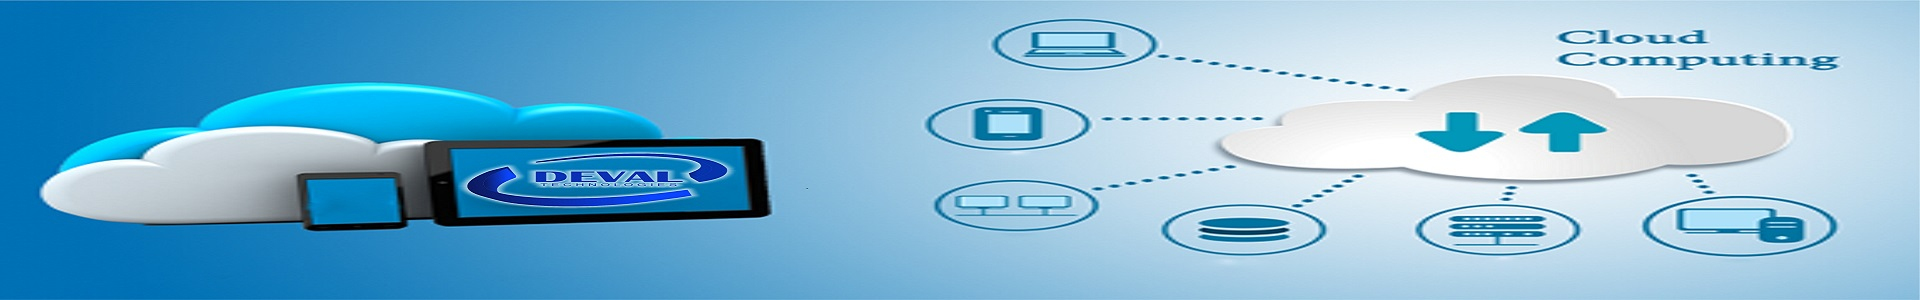
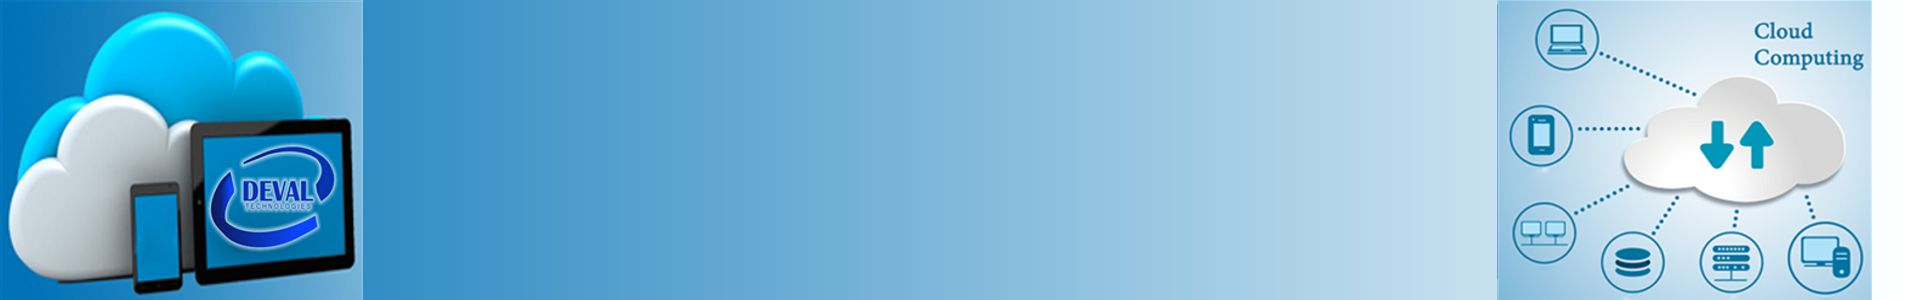
add new images for services

diff --git a/index.html b/index.html
@@ -124,8 +124,8 @@
                                                     </li>
                                                     <li class="dropdown"> <a href="services.html" class="dropdown-toggle"> Servicios</a>
                                                     </li>
-                                                    <li class="dropdown"> <a href="products.html" class="dropdown-toggle"> Productos</a>
-                                                    </li>
+                                                    <!-- <li class="dropdown"> <a href="products.html" class="dropdown-toggle"> Productos</a>
+                                                    </li> -->
 
                                                     <li class="dropdown"> <a href="contact.html" class="dropdown-toggle">Contacto</a>
                                                     </li>
@@ -244,9 +244,9 @@
                                 <span class="price">TI</span><br/>
                             </div>
 
-                            <div class="tp-caption text3 sfb" data-x="center" data-hoffset="0" data-voffset="-10" data-y="95" data-speed="800" data-start="1900" data-easing="Power4.easeOut" data-endspeed="300" data-endeasing="Power1.easeIn" data-captionhidden="off" style="z-index: 6">Tienes un proyecto, nosotros lo realizamos</div>
+                            <div class="tp-caption text3 sfb" data-x="center" data-hoffset="0" data-voffset="-10" data-y="95" data-speed="800" data-start="1900" data-easing="Power4.easeOut" data-endspeed="300" data-endeasing="Power1.easeIn" data-captionhidden="off" style="z-index: 6">Transformación Digital para tu Negocio</div>
 
-                            <div class="tp-caption slide_list sfb" data-x="center" data-hoffset="0" data-voffset="-10" data-y="135" data-speed="800" data-start="2200" data-easing="Power4.easeOut" data-endspeed="300" data-endeasing="Power1.easeIn" data-captionhidden="off" style="z-index:6">Te ayudamos en la transformación digital para tu negocio. </div>
+                            <div class="tp-caption slide_list sfb" data-x="center" data-hoffset="0" data-voffset="-10" data-y="135" data-speed="800" data-start="2200" data-easing="Power4.easeOut" data-endspeed="300" data-endeasing="Power1.easeIn" data-captionhidden="off" style="z-index:6">Te ayudamos a digitalizar los procesos de tu negocio. </div>
                         </li>
                     </ul>
                     <div class="tp-bannertimer"></div>

diff --git a/contact.html b/contact.html
@@ -108,8 +108,8 @@
                                                     </li>
                                                     <li class="dropdown"> <a href="services.html" class="dropdown-toggle"> Servicios</a>
                                                     </li>
-                                                    <li class="dropdown"> <a href="products.html" class="dropdown-toggle"> Productos</a>
-                                                    </li>
+                                                    <!-- <li class="dropdown"> <a href="products.html" class="dropdown-toggle"> Productos</a>
+                                                    </li> -->
 
                                                     <li class="dropdown"> <a href="contact.html" class="dropdown-toggle active">Contacto</a>
                                                     </li>
@@ -129,7 +129,7 @@
             <div class="header_medium contact_us two">
                 <div class="container">
                     <h3 class="bigtext"> Contacte<span>nos</span></h3>
-                    <h3 class="smalltext"><span>Te</span> Escuchamos</h3>
+                    <h3 class="smalltext"><span>Los</span> Escuchamos</h3>
                 </div>
             </div>
             <!--end header medium-->
@@ -340,14 +340,15 @@
                     // Messages for form validation
                     messages: {
                         name: {
-                            required: 'Please enter your name',
+                            required: 'Ingrese su nombre',
                         },
                         email: {
-                            required: 'Please enter your email address',
-                            email: 'Please enter a VALID email address'
+                            required: 'Ingrese su email',
+                            email: 'Email incorrecto'
                         },
                         message: {
-                            required: 'Please enter your message'
+                            required: 'Ingrese su mensaje',
+                            minlength: 'Ingrese mínimo 10 caracteres'
                         }
                     },
 

diff --git a/services.html b/services.html
@@ -107,8 +107,8 @@
                                                     </li>
                                                     <li class="dropdown"> <a href="services.html" class="dropdown-toggle active"> Servicios</a>
                                                     </li>
-                                                    <li class="dropdown"> <a href="products.html" class="dropdown-toggle"> Productos</a>
-                                                    </li>
+                                                    <!-- <li class="dropdown"> <a href="products.html" class="dropdown-toggle"> Productos</a>
+                                                    </li> -->
 
                                                     <li class="dropdown"> <a href="contact.html" class="dropdown-toggle">Contacto</a>
                                                     </li>
@@ -127,8 +127,8 @@
             <div class="clearfix"></div>
             <div class="header_medium services two">
                 <div class="container">
-                    <h3 class="bigtext"> Nuestros <span>Servicios</span></h3>
-                    <h3 class="smalltext"><span>Soluciones</span> Informáticas</h3>
+                    <h3 class="bigtext">¿Quieres digitalizar<span> tu negocio?</span></h3>
+                    <h3 class="smalltext"><span>Somos</span> los especialistas</h3>
                 </div>
             </div>
             <!--end header medium-->
@@ -168,7 +168,7 @@
             </div>
             <!--end section-->
             <div class="clearfix"></div>
-            <div class="section_holder21">
+            <div class="section_holder_services21">
                 <div class="section_top_shape"></div>
                 <div class="container">
                     <div class="one_full">
@@ -185,6 +185,7 @@
                             <div class="icon"><span class="glyph-item mega" aria-hidden="true" data-icon="&#xe036;"></span></div>
                             <h5 class="white lessmar2">Web Apps</h5>
                             <p class="white">Soluciones web.</p>
+
                         </div>
                         <!--end item-->
 

diff --git a/css/colors/liteblue.css b/css/colors/liteblue.css
@@ -1,5 +1,5 @@
 #trueHeader #logo {
-    background: url(../../images/colors/liteblue/desarrollo-software.1.png) left bottom no-repeat;
+    background: url(../../images/colors/liteblue/desarrollo-software.1.png) left center no-repeat;
 }
 
 .top_nav {
@@ -485,7 +485,41 @@ ul.nav>li>a.active:hover {
 }
 
 .section_holder21 {
-    background-image: url(../../images/colors/liteblue/parallax_bg5.jpg);
+    width: 100%;
+    float: left;
+    padding: 0px 0 0px 0;
+    margin: 0px;
+    /* background: url("../images/desarrollo-sistemas-erp.jpg"); */
+    background: url(../../images/desarrollo-sistemas-outsourcing-2.jpg);
+    background-attachment: fixed;
+    background-origin: initial;
+    background-clip: initial;
+    background-size: cover;
+    background-repeat: no-repeat;
+    background-position: 100% 0;
+    background-position: center;
+    /* background-size: cover; */
+}
+
+.section_holder_services21 {
+    width: 100%;
+    float: left;
+    padding: 0px 0 0px 0;
+    margin: 0px;
+    /* background: url("../images/desarrollo-sistemas-erp.jpg"); */
+    background: url(../../images/desarrollo-sistemas-software-servicios.jpg);
+    background-attachment: fixed;
+    background-origin: initial;
+    background-clip: initial;
+    background-size: cover;
+    background-repeat: no-repeat;
+    background-position: 100% 0;
+    background-position: center;
+    /* background-size: cover; */
+}
+
+.section_holder_services21 .icon {
+    font-size: 4rem;
 }
 
 .section_holder22 .one_fourth:hover .img_holder {

diff --git a/css/style.css b/css/style.css
@@ -154,11 +154,11 @@
     float: left;
     display: block;
     width: 100%;
-    min-height: 45px;
-    margin-top: 13px;
+    min-height: 70px;
+    margin-top: 2px;
     position: relative;
     text-indent: -999em;
-    background: url(../images/desarrollo-software.1.png) no-repeat left bottom;
+    background: url(../images/desarrollo-software.1.png) no-repeat left center;
 }
 
 
@@ -3129,14 +3129,17 @@ label.custom-select {
 
 .about_us {
     background: url(../images/about_deval_software.jpg) 0px 0px no-repeat;
+    background-size: contain;
 }
 
 .contact_us {
     background: url(../images/contactanos_deval_tech_sistemas.jpg) 0px 0px no-repeat;
+    background-size: contain;
 }
 
 .services {
     background: url(../images/Cloud-computing-Servicios-deval-2.jpg) 0px 0px no-repeat;
+    background-size: contain;
 }
 
 .header_medium .bigtext {
@@ -3248,7 +3251,7 @@ label.custom-select {
     float: left;
     padding: 0px 0 0px 0;
     margin: 0px;
-    background: url("../images/parallax_bg5.jpg");
+    background: url("../images/desarrollo-sistemas-outsourcing-2.jpg");
     background-attachment: fixed;
     background-origin: initial;
     background-clip: initial;

diff --git a/about.html b/about.html
@@ -106,8 +106,8 @@
                                                     </li>
                                                     <li class="dropdown"> <a href="services.html" class="dropdown-toggle"> Servicios</a>
                                                     </li>
-                                                    <li class="dropdown"> <a href="products.html" class="dropdown-toggle"> Productos</a>
-                                                    </li>
+                                                    <!-- <li class="dropdown"> <a href="products.html" class="dropdown-toggle"> Productos</a>
+                                                    </li> -->
 
                                                     <li class="dropdown"> <a href="contact.html" class="dropdown-toggle">Contacto</a>
                                                     </li>

diff --git a/css/responsive-leyouts.css b/css/responsive-leyouts.css
@@ -856,7 +856,7 @@
         background: url(/assets/images/desarrollo-software.1.png) no-repeat center bottom;
     }
     .menu_main {
-        float: none;
+        /* float: none; */
         width: 90%;
         margin: 0 auto;
     }
@@ -1474,7 +1474,7 @@
         width: 100%;
     }
     .menu_main {
-        float: none;
+        /* float: none; */
         width: 90%;
         margin: 0 auto;
     }

diff --git a/demo-contacts.php b/demo-contacts.php
@@ -1,7 +1,7 @@
 <?php
 if( isset($_POST['name']) )
 {
-	$to = 'codelayers9@gmail.com'; // Replace with your email
+	$to = 'contacto@devaltech.net'; // Replace with your email
 	
 	$subject = $_POST['subject'];
 	$message = $_POST['message'] . "\n\n" . 'Regards, ' . $_POST['name'] . '.';
